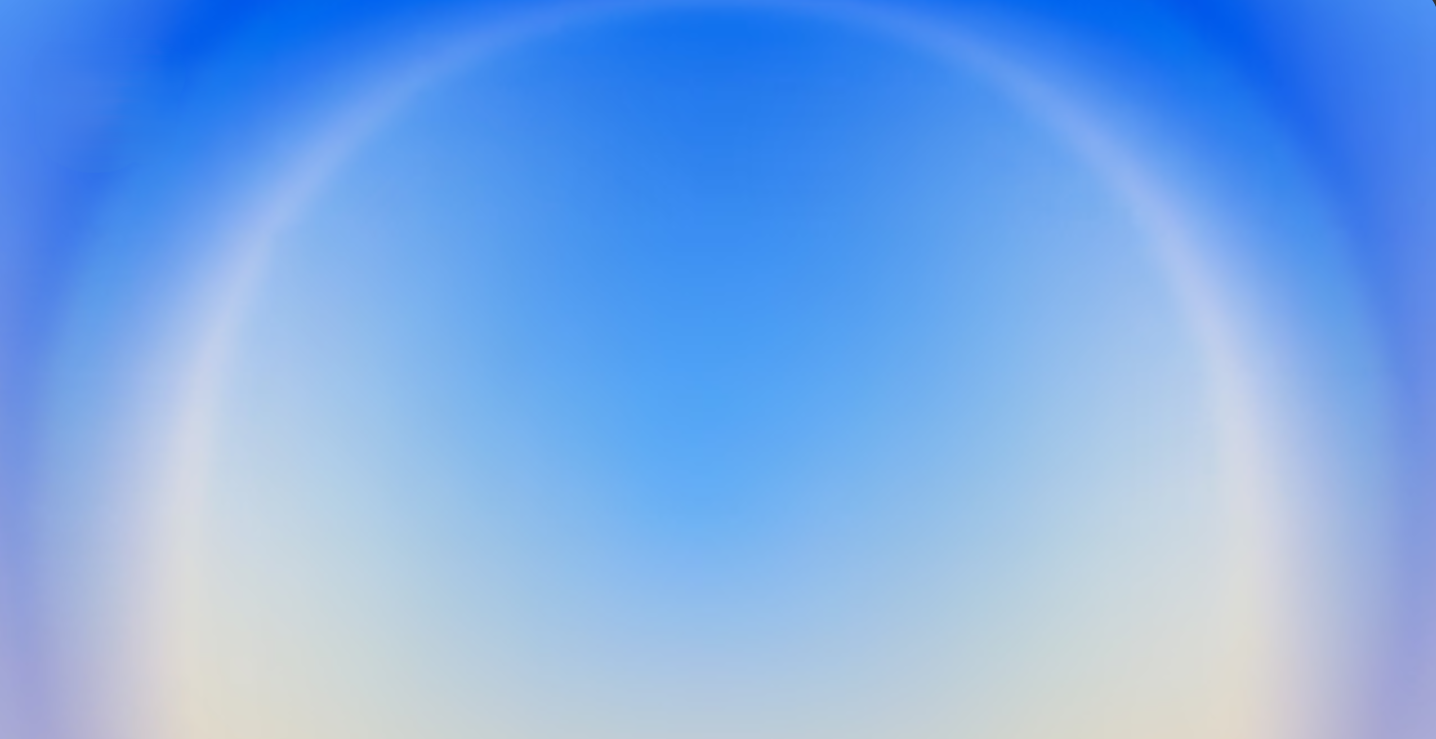
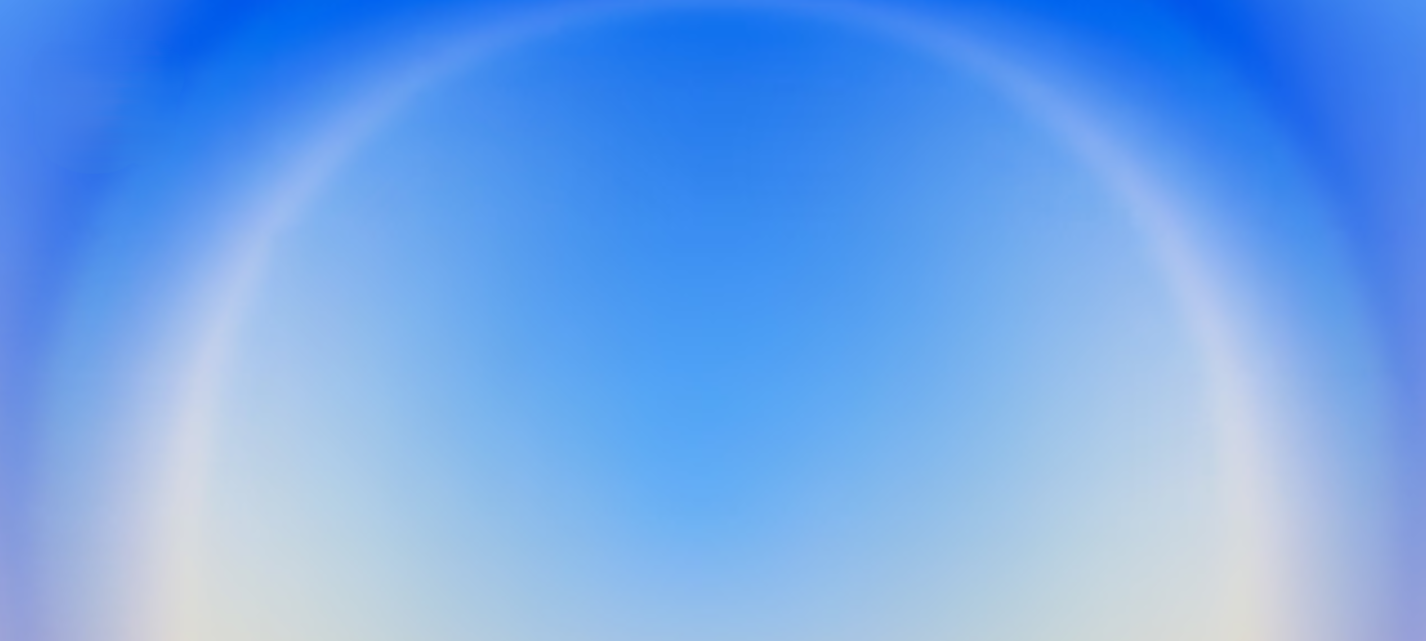
Update card background image

Changed region(s): [[0.3703, 0.7176, 0.648, 1.0], [0.0926, 0.1872, 0.216, 0.5304]]

diff --git a/src/pages/UserDashboard.tsx b/src/pages/UserDashboard.tsx
@@ -237,7 +237,7 @@ const UserDashboard = () => {
         <div className="flex justify-center" ref={progressRef}>
           <Card className="w-full max-w-4xl border shadow-sm overflow-hidden relative">
             <div className="absolute inset-0">
-              <img src={cardBackground} alt="" className="w-full h-full object-cover opacity-50" />
+              <img src={cardBackground} alt="" className="w-full h-full object-cover" />
             </div>
             <CardContent className="pt-16 pb-12 flex flex-col items-center text-center space-y-8 relative z-10">
               <div className="w-24 h-24 rounded-3xl bg-[#4A90E2] flex items-center justify-center">
